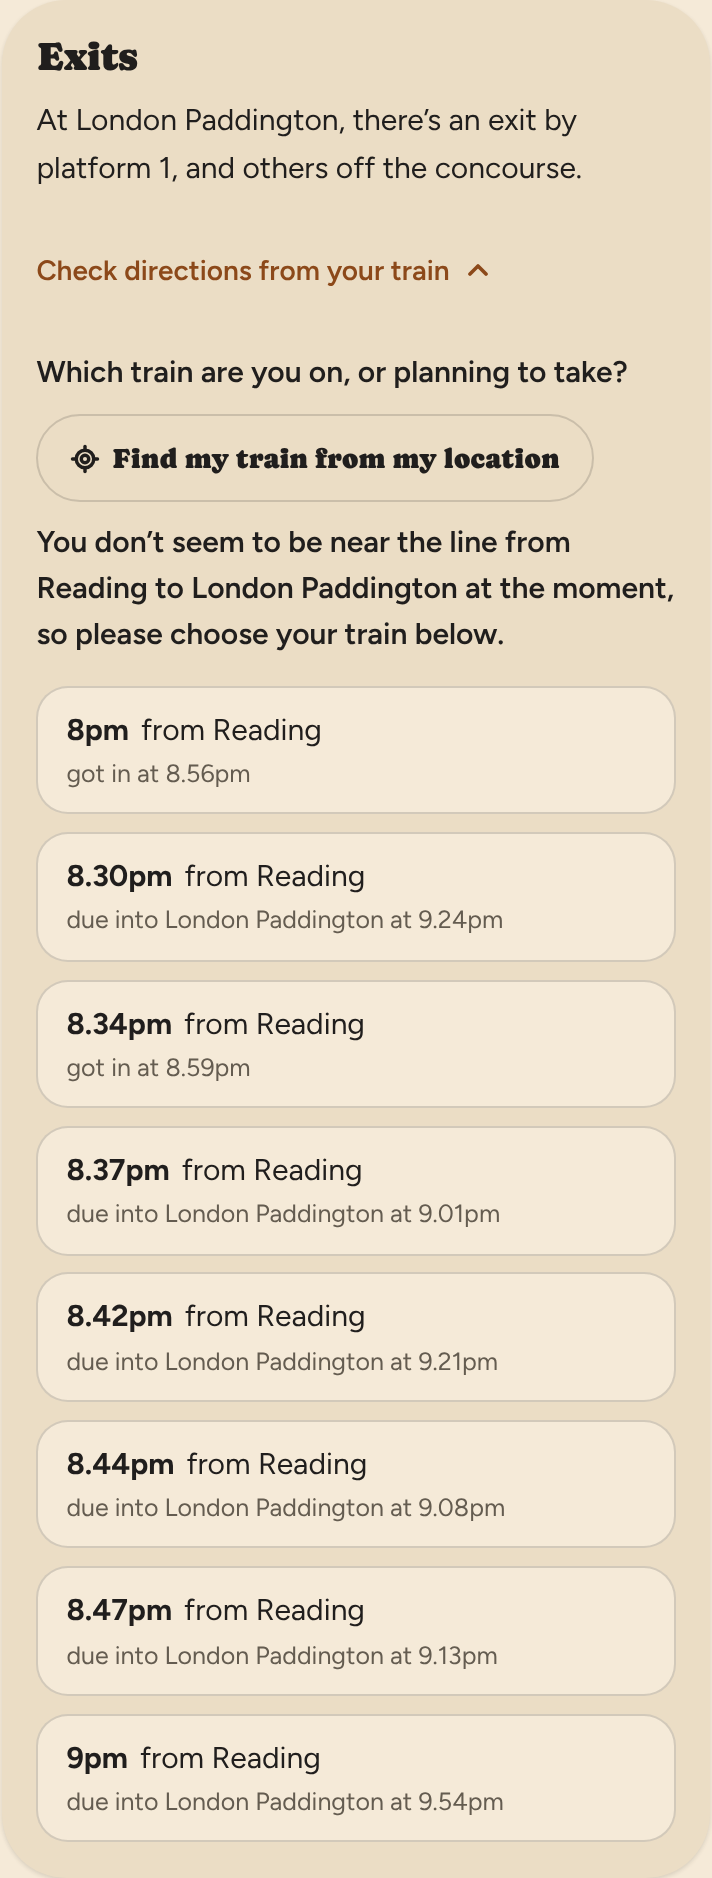
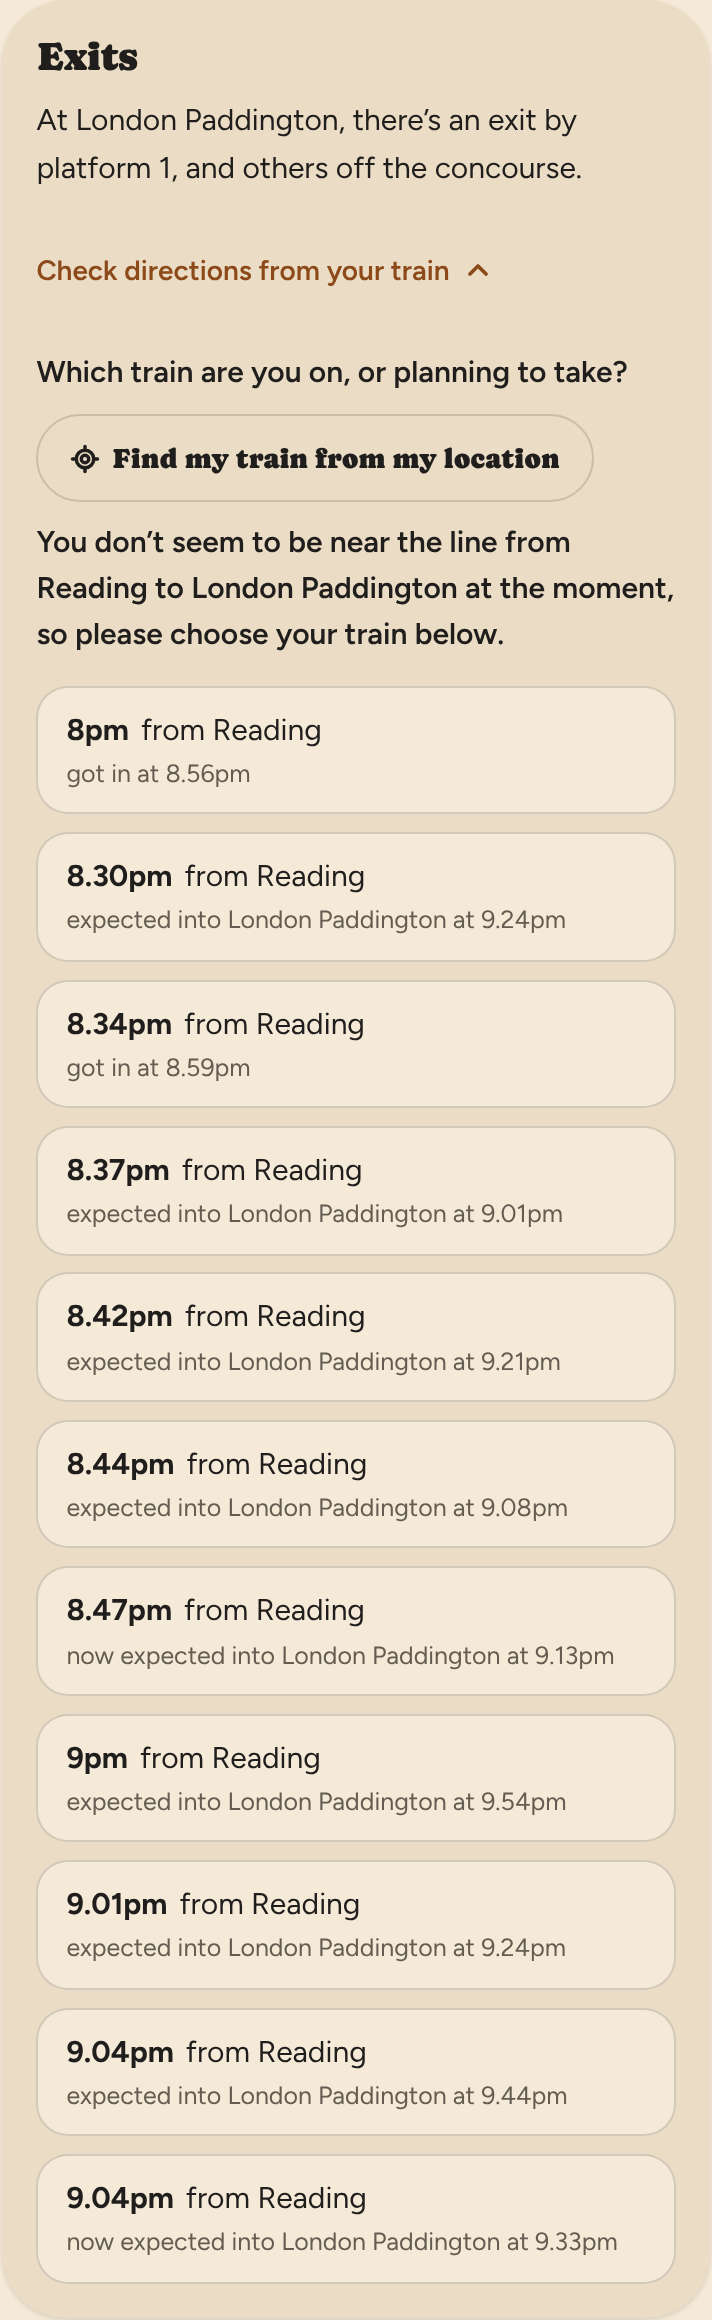
"Expected" wording agreed by John; SPEC §14; a sweep of every saved board
Claude-Session: https://claude.ai/code/session_01BsvHLJXmw3oprEBv3k7dfG

diff --git a/scripts/check-rules.ts b/scripts/check-rules.ts
@@ -244,11 +244,11 @@ eq('arrivals: two (John)', arrivals(soon(2)).text, "There are two trains arrivin
 eq('arrivals: three to ten (John)', arrivals(analyse(snapOf(raw('20261117-2059-PAD-RDG.json')))).text.startsWith('The trains arriving in the next hour are expected at 9.11pm'), true)
 eq('arrivals: long journey, what it can see (draft)', arrivals(A('TVP-PAD')).text, "Trainchecker can see one train arriving in the next hour, expected at 9.21am (the one due to leave Tiverton Parkway at 6.53). Trains that left Tiverton Parkway more than two hours ago aren't included, as Trainchecker can't see them.")
 eq('arrivals: the heading', arrivals(rp9).heading, 'At London Paddington from Reading')
-eq('arrivals: none in the next hour', arrivals(mdg).text, 'No direct trains from Reading are expected at Midgham in the next hour. The next one is due at 9.28am.')
+eq('arrivals: none in the next hour', arrivals(mdg).text, 'No direct trains from Reading are expected at Midgham in the next hour. The next one is expected at 9.28am.')
 const mdgGone = changed('RDG-MDG', (sv) => { const t = sv.find((x) => x.sta)!; t.std = '08:40'; t.sta = '08:55'; t.ata = null; t.eta = null; t.cancelled = true })
-eq('arrivals: none, one cancelled (John)', arrivals(mdgGone).text, 'No direct trains from Reading are expected at Midgham in the next hour. The one due in at 8.55am was cancelled. The next one is due at 9.28am.')
+eq('arrivals: none, one cancelled (John)', arrivals(mdgGone).text, 'No direct trains from Reading are expected at Midgham in the next hour. The one due in at 8.55am was cancelled. The next one is expected at 9.28am.')
 eq('arrivals: a long journey says it can\'t see them all, never "none"', [arrivals(A('PAD-PLY')).text, arrivals(kgxYrk).text.endsWith("aren't included, as Trainchecker can't see them.")],
-  ["Trainchecker can only see trains that left London Paddington in the last two hours, so it can't say which trains are due at Plymouth in the next hour.", true])
+  ["Trainchecker can only see trains that left London Paddington in the last two hours, so it can't say which trains are expected at Plymouth in the next hour.", true])
 
 // The late trains as a range (John, November 18th 2026), and "expected" said once, then "set to be".
 eq('late trains: a range', [lastTwoLines(bthBri)[1], lastTwoLines(rdgPad)[1], lastTwoLines(manMia)[1]],
@@ -264,7 +264,7 @@ eq('the lists: "am" once, the hour kept, laid out as rows', [tvp.text, tvp.block
 eq('the lists: on the hour keeps "pm", across midday too', arrivals(analyse(snapOf(raw('20261117-1824-BTH-BRI.json')))).text.endsWith('6.53 (the 6.38) and 7pm (the 6.48).'), true)
 eq('the lists: notes on their own rows', platformTrains(rp9)!.blocks![1], { lead: 'Fast trains, from platforms 10 and 11:', rows: [{ time: '9.01pm' }, { time: '9.10', note: 'was due to go at 9.04' }, { time: '9.12' }, { time: '9.23' }, { time: '9.26' }, { time: '9.43' }] })
 eq('the lists: Share words (drafts)', [listShareWords(mdg, 'platforms', platformTrains(mdg)!.prose).text, listShareWords(mdg, 'arrivals', arrivals(mdg).text).text],
-  ['Here are the trains from Reading to Midgham with platforms, as of 8.22am on November 18th. There are trains leaving at 9.13am (platform 12A) and 10.12 (platform 2). From Trainchecker.', 'Here are the trains due at Midgham from Reading, as of 8.22am on November 18th. No direct trains from Reading are expected at Midgham in the next hour. The next one is due at 9.28am. From Trainchecker.'])
+  ['Here are the trains from Reading to Midgham with platforms, as of 8.22am on November 18th. There are trains leaving at 9.13am (platform 12A) and 10.12 (platform 2). From Trainchecker.', 'Here are the trains expected at Midgham from Reading, as of 8.22am on November 18th. No direct trains from Reading are expected at Midgham in the next hour. The next one is expected at 9.28am. From Trainchecker.'])
 eq('share: "next four hours" (John)', shareWords(bthBri).text.includes('in the next four hours'), true)
 
 // "Delayed" with no time: out of the lists, a sentence of its own, with the reason when given (John, November 18th 2026).
@@ -394,7 +394,7 @@ eq('stations: suggestions', [suggest('paddington')[0][1], suggest('man')[0][1], 
   eq('picture: arrivals, the expected time, "the 8.47pm", "← three minutes late" (John, November 20th, option D)', [ap.heads, ap.rows[2]], [['EXPECTED IN', 'FROM READING'], { time: '9.13pm', mid: 'the 8.47pm · Fast', late: 'three minutes late', lateBy: 3, arrow: true }])
   eq('picture: arrivals in the order expected (John, November 20th)', ap.rows.map((r) => r.time).join(' '), '9.01pm 9.08pm 9.13pm 9.21pm 9.24pm 9.24pm 9.33pm 9.35pm 9.44pm 9.52pm')
   eq('picture: platforms heading (John, November 20th)', pp.heads, ['EXPECTED TO LEAVE', 'PLATFORM'])
-  eq('picture: arrivals, the words with more than ten', ap.words.text, 'The first ten trains due at London Paddington from Reading after 8.59pm on November 17th, from Trainchecker.')
+  eq('picture: arrivals, the words with more than ten', ap.words.text, 'The first ten trains expected at London Paddington from Reading after 8.59pm on November 17th, from Trainchecker.')
   eq('picture: arrivals, a long journey has its note', arrivalsPicture(A('TVP-PAD'))!.note, "Trains that left Tiverton Parkway more than two hours ago aren't included, as Trainchecker can't see them.")
   eq('picture: arrivals, none, words instead', arrivalsPicture(mdg), null)
   const dl = changed('RDG-MDG', (sv) => { const t = sv.filter((x) => x.sta && !x.ata)[0]; t.std = '08:30'; t.sta = '08:45'; t.eta = 'Delayed'; t.cancelled = false })

diff --git a/src/lib/sentences.ts b/src/lib/sentences.ts
@@ -811,7 +811,7 @@ export function arrivals(a: Analysis): Listing & { heading: string } {
       : `The ${andList(held.map((t) => sayH(t.std)))} from ${a.from}, due at ${andList(held.map((t) => sayH(t.sta!)))}, are delayed, with no new times given yet${because(held)}.`
   const plain = (text: string) => ({ heading, text: tenAfterWords(text), prose: tenAfterWords(text), blocks: null, after: null })
   if (!inHour.length && held.length) return plain(heldLine + (partial ? ' ' + note : ''))
-  if (!inHour.length && partial) return plain(`Trainchecker can only see trains that left ${a.from} in the last two hours, so it can't say which trains are due at ${a.to} in the next hour.`)
+  if (!inHour.length && partial) return plain(`Trainchecker can only see trains that left ${a.from} in the last two hours, so it can't say which trains are expected at ${a.to} in the next hour.`)
   if (!inHour.length) {
     let text = `No direct trains from ${a.from} are expected at ${a.to} in the next hour.`
     const gone = due.filter((t) => t.cancelled && fromNow(t.sta!) >= 0 && fromNow(t.sta!) <= 60).sort((x, y) => fromNow(x.sta!) - fromNow(y.sta!))
@@ -820,7 +820,7 @@ export function arrivals(a: Analysis): Listing & { heading: string } {
     else if (gone.length > 1) text += ` The ${num(gone.length)} due in at ${andList(gone.map((t) => say(t.sta!)))} were cancelled.`
     // The next one after the hour, so Station exits' list of later trains doesn't seem to argue with
     // this (John agreed, November 22nd 2026; the sentence is Claude's draft).
-    if (coming[0]) text += ` The next one is due at ${t12(when(coming[0]))}.`
+    if (coming[0]) text += ` The next one is expected at ${t12(when(coming[0]))}.`
     return plain(text)
   }
   const shown = inHour.slice(0, 10), n = inHour.length
@@ -852,7 +852,7 @@ export function arrivals(a: Analysis): Listing & { heading: string } {
  *  sentence, and the journey's link sent separately (house style §17). */
 export function listShareWords(a: Analysis, kind: 'platforms' | 'arrivals', prose: string): { text: string; title: string; hash: string } {
   const at = `${t12(a.now)} on ${dateShort(new Date(a.taken))}`
-  const head = kind === 'platforms' ? `Here are the trains from ${a.from} to ${a.to} with platforms, as of ${at}.` : `Here are the trains due at ${a.to} from ${a.from}, as of ${at}.`
+  const head = kind === 'platforms' ? `Here are the trains from ${a.from} to ${a.to} with platforms, as of ${at}.` : `Here are the trains expected at ${a.to} from ${a.from}, as of ${at}.`
   return { text: tenAfterWords(`${head} ${prose} From Trainchecker.`), title: `Trainchecker: ${a.from} to ${a.to}`, hash: `#${a.fromCrs}-${a.toCrs}` }
 }
 
@@ -939,7 +939,7 @@ export function arrivalsPicture(a: Analysis): ListPicture | null {
     heads: a.arr ? ['EXPECTED IN', `FROM ${a.from.toUpperCase()}`, 'PLATFORM'] : ['EXPECTED IN', `FROM ${a.from.toUpperCase()}`], one, rows,
     note: longest >= 120 ? `Trains that left ${a.from} more than two hours ago aren't included, as Trainchecker can't see them.` : null,
     words: {
-      text: inHour.length > 10 ? `The first ten trains due at ${a.to} from ${a.from} after ${at}, from Trainchecker.` : `The trains due at ${a.to} from ${a.from}, at ${at}, from Trainchecker.`,
+      text: inHour.length > 10 ? `The first ten trains expected at ${a.to} from ${a.from} after ${at}, from Trainchecker.` : `The trains expected at ${a.to} from ${a.from}, at ${at}, from Trainchecker.`,
       title: `Trainchecker: ${a.from} to ${a.to}`, hash: `#${a.fromCrs}-${a.toCrs}`,
     },
   }

diff --git a/src/components/JourneyView.tsx b/src/components/JourneyView.tsx
@@ -182,9 +182,9 @@ function Arrivals({ a }: { a: Analysis }) {
   )
   const known = pic.rows.filter((r) => r.time !== '?').length
   const limited = pic.words.text.startsWith('The first ten')
-  const count = !known ? '' : pic.note ? (known === 1 ? 'Trainchecker can see one train due in the next hour.' : `Trainchecker can see ${num(known)} trains due in the next hour.`)
-    : limited ? 'More than ten trains are due in the next hour.'
-    : known === 1 ? 'One train is due in the next hour.' : `${Cap(num(known))} trains are due in the next hour.`
+  const count = !known ? '' : pic.note ? (known === 1 ? 'Trainchecker can see one train expected in the next hour.' : `Trainchecker can see ${num(known)} trains expected in the next hour.`)
+    : limited ? 'More than ten trains are expected in the next hour.'
+    : known === 1 ? 'One train is expected in the next hour.' : `${Cap(num(known))} trains are expected in the next hour.`
   const late = boardSummary(pic.rows, 'arrive')
   const say = known ? [count, limited && late ? `Of the first ten, ${late[0].toLowerCase()}${late.slice(1)}` : late].filter(Boolean).join(' ') : x.prose
   return (

diff --git a/SPEC.md b/SPEC.md
@@ -795,3 +795,42 @@ The sums and sentences are in `src/lib/connection.ts`, with the agreed answers w
     10.43am to Midgham, that's quite a wait at Reading." A late onward train keeps its time
     ("currently expected to leave four minutes late, at 9.47"). Judged on the gap after lateness, so a
     gap shrunk to tight uses the tight wording.
+
+## 14. Find my train from my location, and the train lists (November 26th 2026)
+
+All agreed by John on November 26th 2026, after trying it on a journey from Reading to Paddington.
+How it works, and the figures to tune: `design/find-my-train/README.md`.
+
+1. **The button** "Find my train from my location", at the top of the train list in Connections and
+   Exits, shown once a train in the list has left A. Under it: "Your location stays on this device."
+   While working: "Finding your location…".
+2. **The answers:** "From your location, you're probably on the 5.53pm." (chosen, as if tapped);
+   "From your location, you're probably on the 8.42pm or the 8.47pm, which are close together at the
+   moment. Please choose one below." (in time order); "You seem to be at the station still, so here's
+   the next train, the 9pm." (or "…still. Please choose the train you're planning to take."); "You
+   don't seem to be near the line from Reading to London Paddington at the moment, so please choose
+   your train below."; "None of these trains seems to be near you at the moment, so please choose
+   yours below."; "Trainchecker wasn't allowed to see where you are. You can change that in your
+   browser's settings, or choose your train below."; "Your location couldn't be found. Please try
+   again, or choose your train below." "On", not "taking", in these (John: no sentence ending in a
+   preposition).
+3. **The trains found go first**, edged in a dashed accent line, with "Or choose another" above the
+   rest. Still at A, the list shows only trains still to leave or gone in the last two minutes.
+4. **About these figures:** "Find my train from my location, in the Connections and Exits sections,
+   uses your device's location only when you tap it, and only on your device: it isn't sent to
+   Trainchecker or anyone else. It compares where you are with where each train should be by National
+   Rail's times, so it can only say which train you're probably taking. The stations' positions come
+   from National Rail, and from OpenStreetMap where the two differ."
+5. **The train lists** in Connections and Exits: every train on its way, then the next four to leave,
+   in time order (was the first eight, which could leave out the train just boarded).
+6. **Expected times say so:** the train buttons read "expected into London Paddington at 10.26am",
+   or "now expected into … at 10.31am" when a minute or more late; Arrivals "The next one is expected
+   at 4.20pm.", "Three trains are expected in the next hour." (and the other counts), "…can't say
+   which trains are expected at Plymouth in the next hour."; Arrivals' Share "Here are the trains
+   expected at London Paddington from Reading, as of …" and its picture's words. Kept as "due": a
+   timetabled time ("The one due in at 3.14pm was cancelled.", "the one due to leave Reading at
+   2.40pm", "due at 3.30pm, is delayed", "was due to go at 2.19"), and "Your train is due into
+   platform 9."
+7. **A refresh keeps your place:** the same section, the same distance down, the same folds open;
+   only after a refresh, kept in the tab's own storage. A train or station chosen inside Connections
+   or Exits isn't brought back.

diff --git a/CLAUDE.md b/CLAUDE.md
@@ -74,6 +74,18 @@ given its own branch). Before committing there, run
 
 ## Log
 
+### November 26th 2026: "Find my train from my location", fuller lists, "expected", a refresh that keeps your place; live (branch `claude/happy-darwin-mmnd4m`, merged the same day; Claude Code)
+
+- **John's answers:** "now expected into" kept for late trains; "expected" for the next train after an hour with
+  none, the Arrivals counts and Arrivals' Share words and picture; "Your train is due into platform 9." and the
+  timetabled "due"s kept. Done in `sentences.ts` and `JourneyView.tsx`; `check-rules.ts` updated to the new wording.
+  Everything agreed today in `SPEC.md` §14. **John:** merge to `main` after as much testing as possible.
+- **Checked:** `npm run check` 264 + 57 + 84 + 40 + 84 + 36 + 394 + 16 + 128; `tsc -b`, lint, build; in the browser
+  `shoot.mjs`, `list.mjs` and `refresh.mjs` again, and a new `design/previews/find-my-train/sweep.mjs`: all 16 saved
+  boards, every fold open, at 1200px light, 390px dark and 844×390 with touch: 48 views, no errors, no sideways scroll,
+  the train buttons as counted. Then merged into `main`. Not checked: Safari on a real iPhone for the refresh, the
+  live site with both live boards (the preview has been tried by John).
+
 ### November 26th 2026: a refresh keeps your place; "expected into" on the train buttons (branch `claude/happy-darwin-mmnd4m`, not merged; Claude Code)
 
 - **John:** where does Refresh land? Found: wherever the browser guesses (Chromium: the top, or near the bottom when the
